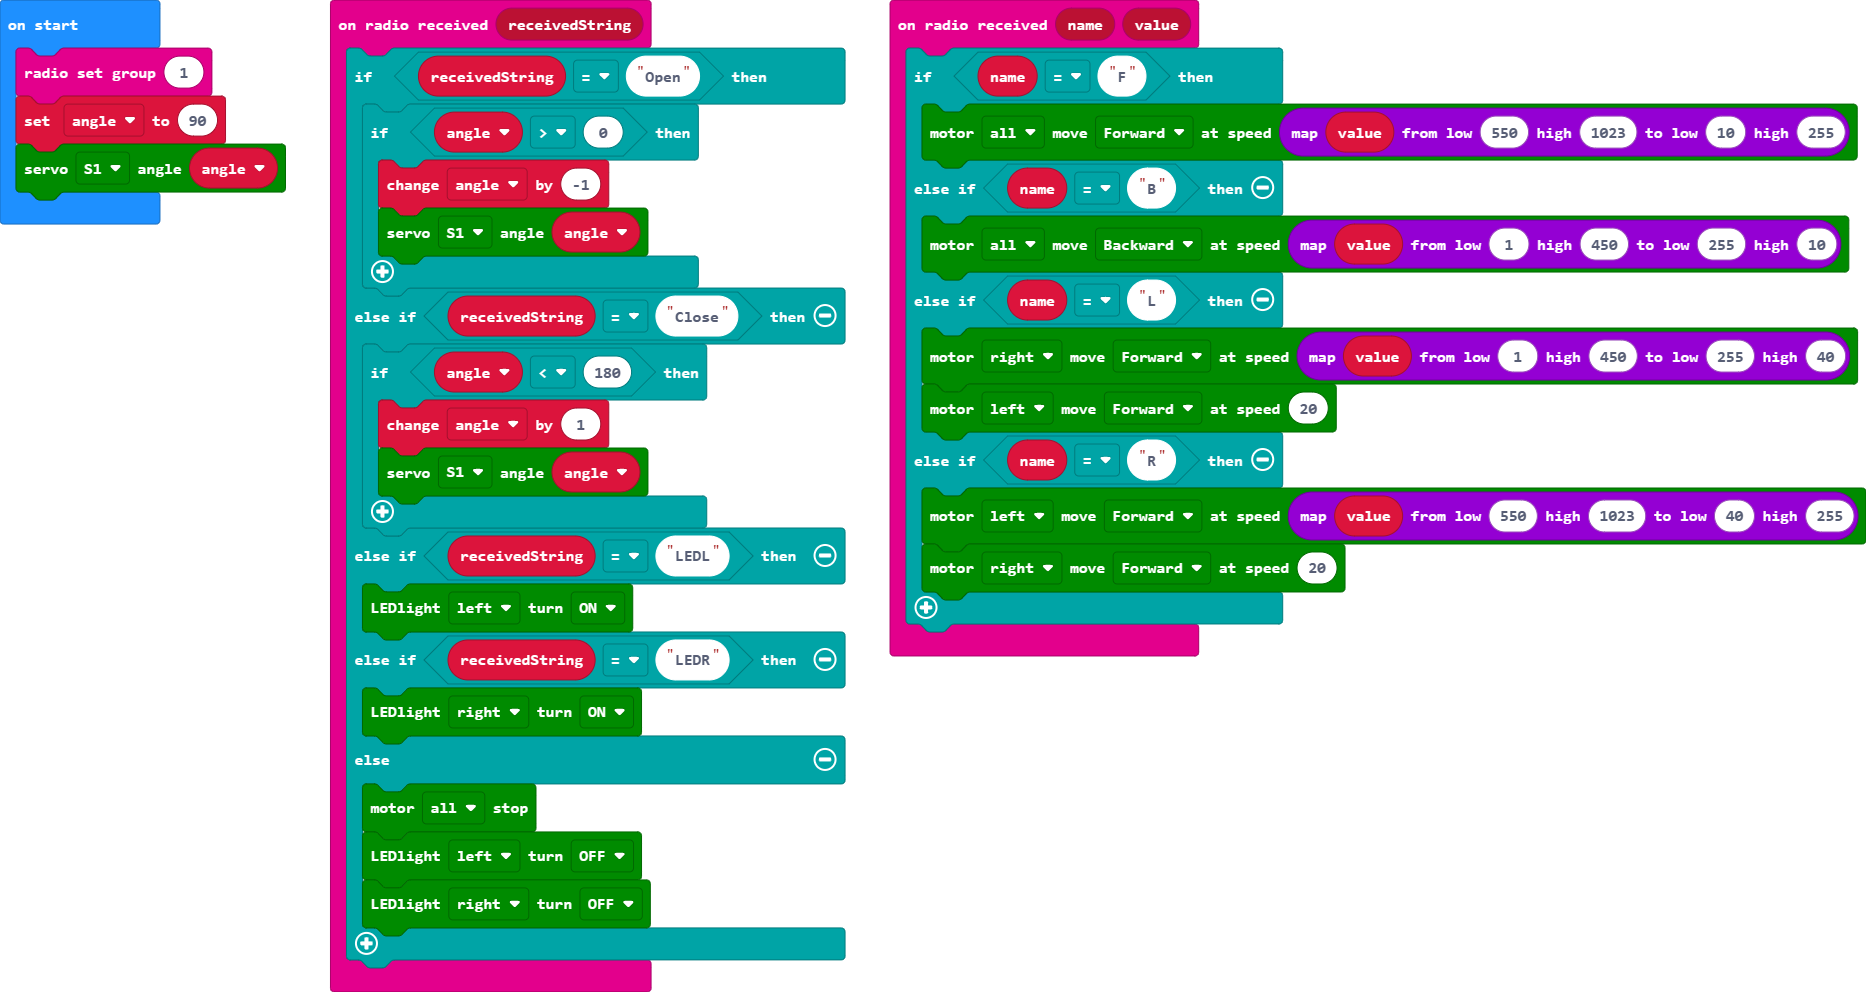
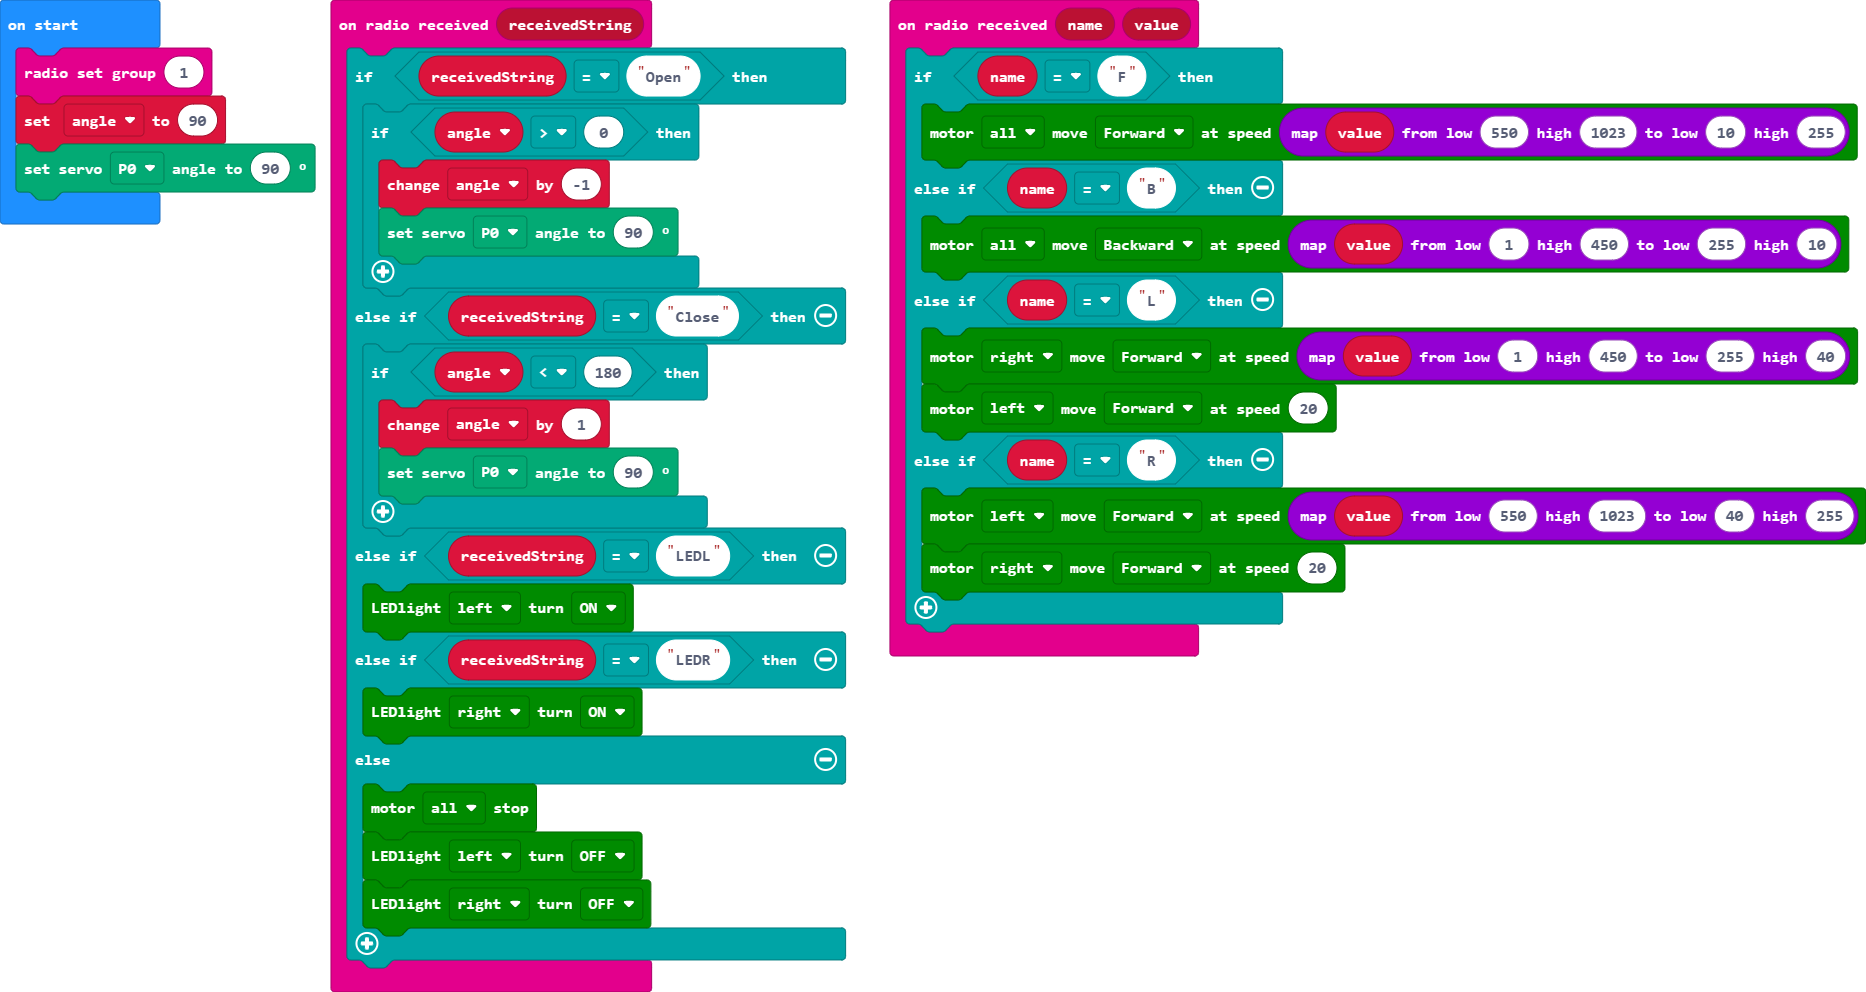
Update pxt.json, main.blocks, main.ts

diff --git a/main.ts b/main.ts
@@ -2,12 +2,12 @@ radio.onReceivedString(function (receivedString) {
     if (receivedString == "Open") {
         if (angle > 0) {
             angle += -1
-            maqueen.servoRun(maqueen.Servos.S1, angle)
+            servos.P0.setAngle(90)
         }
     } else if (receivedString == "Close") {
         if (angle < 180) {
             angle += 1
-            maqueen.servoRun(maqueen.Servos.S1, angle)
+            servos.P0.setAngle(90)
         }
     } else if (receivedString == "LEDL") {
         maqueen.writeLED(maqueen.LED.LEDLeft, maqueen.LEDswitch.turnOn)
@@ -35,4 +35,4 @@ radio.onReceivedValue(function (name, value) {
 let angle = 0
 radio.setGroup(1)
 angle = 90
-maqueen.servoRun(maqueen.Servos.S1, angle)
+servos.P0.setAngle(90)
